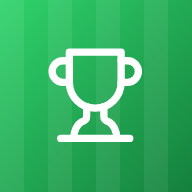
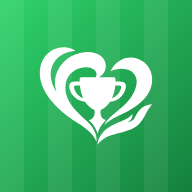
Add files via upload

Changed region(s): [[0.1875, 0.2188, 0.8125, 0.75]]

diff --git a/index.html b/index.html
@@ -10,8 +10,8 @@
 <meta name="apple-mobile-web-app-status-bar-style" content="black" />
 <meta name="apple-mobile-web-app-title" content="Fut com Cristo" />
 <link rel="manifest" href="manifest.webmanifest" />
-<link rel="icon" href="icon-192.png?v=2" />
-<link rel="apple-touch-icon" href="icon-192.png?v=2" />
+<link rel="icon" href="icon-192.png?v=3" />
+<link rel="apple-touch-icon" href="icon-192.png?v=3" />
 <style>
 :root{
   --blue:#2563EB; --blue-d:#1D4ED8; --ink:#0B0B0F; --bg:#F4F6FA; --red:#DC2626;
@@ -469,6 +469,7 @@ body{background:var(--bg0)}
 .mid .rtrack,.mid .rprog{stroke-width:11}
 .bt .num{font-size:60px}
 @media (max-width:360px){.mid{width:156px;height:156px}.mid .clock{font-size:40px}}
+.logo{width:48px;height:48px;border-radius:14px}.logo svg.logo-img{width:36px;height:auto;display:block}
 /* ---- Nada pode sair da tela ---- */
 html,body{overflow-x:hidden;max-width:100%}
 .shell,.sheet,.content{max-width:100%;min-width:0}
@@ -588,6 +589,9 @@ const ICONS = {
   refresh: '<path d="M3 12a9 9 0 0 1 9-9 9.75 9.75 0 0 1 6.74 2.74L21 8"/><path d="M21 3v5h-5"/><path d="M21 12a9 9 0 0 1-9 9 9.75 9.75 0 0 1-6.74-2.74L3 16"/><path d="M8 16H3v5"/>',
   wallet: '<path d="M19 7V4a1 1 0 0 0-1-1H5a2 2 0 0 0 0 4h15a1 1 0 0 1 1 1v4h-3a2 2 0 0 0 0 4h3a1 1 0 0 0 1-1v-2a1 1 0 0 0-1-1"/><path d="M3 5v14a2 2 0 0 0 2 2h15a1 1 0 0 0 1-1v-4"/>'
 };
+function logoSvg() {
+  return '<svg class="logo-img" viewBox="0 0 2594.35 2253.75" fill="currentColor" aria-hidden="true"><path d="M747.75 41.75c26.7,11.77 51.87,26.46 75.5,44.06l-75.13 7.06c-107.66,15.84 -203.86,55.81 -288.58,119.91 -77.22,58.46 -142.36,141.95 -175.9,233.98 -17.48,48.03 -27.68,94.56 -30.58,139.57 -4.55,70.92 3.87,143.5 25.26,217.75 22.86,83.99 60.87,162.86 109.89,236.19 0.03,0.04 0.07,0.06 0.12,0.06 0.08,0 0.14,-0.06 0.14,-0.14 0,-0.01 -0,-0.02 -0,-0.04 -28.98,-84.83 -41.88,-169.39 -37.72,-258.03 12.22,-145.47 64.07,-273.93 155.57,-385.37 82.9,-100.98 186.05,-175.89 309.46,-224.72 73.9,-29.74 151.79,-48.22 233.66,-55.44 83.06,-7.32 162.73,1.19 239.03,25.53 55.87,18.82 104.45,47.87 145.73,87.15 79.48,78.21 109.11,190.62 74.58,297.26 -24.16,72.37 -76.99,135.97 -148.51,165.82 -0.15,0.08 -0.24,0.24 -0.24,0.41 0,0.24 0.18,0.44 0.42,0.46 140.83,0.15 249.45,0.12 325.86,-0.12 16.11,-0.04 26.95,1.23 32.53,3.8 22.59,10.4 27.94,29.39 27.27,55.32 -0.06,3.04 -0.1,17.36 -0.12,42.95 56.3,0.12 101.94,0.16 136.93,0.15 49.25,-0.06 88.78,24.07 100.36,73.18 1.45,6.14 2.61,12.26 3.48,18.35 3.54,88.25 -35.43,173.81 -94.15,239.12 -67.66,75.3 -166,122.87 -270.48,136.17 -53.12,81.6 -125.6,150.95 -216.06,189.49 -8.16,36.74 -7.81,71.73 -0.26,106.35 11.38,52.04 40.98,90.17 89.07,113.35 8.6,4.15 16.9,8.02 26.51,12.17 -90.2,86.22 -154.53,187.54 -188.76,307.22 -29.07,-104.08 -88.84,-194.86 -162.05,-270.31 -10.96,-11.31 -23.08,-23.35 -36.36,-36.13 17.79,-5.48 31.45,-10.61 40.98,-15.39 76.46,-38.36 97.46,-116.71 89.18,-196.11 -0.96,-9.24 -1.95,-16 -4.15,-21.72 -90.84,-37.43 -162.34,-107.83 -215.6,-189.08 -163.18,-19.92 -301.27,-122.12 -351.33,-278.88 -7.8,-24.43 -12.2,-50.69 -13.18,-78.79 -0.89,-25.48 4.82,-48.16 17.13,-68.04 20.85,-27.24 49.94,-40.88 87.27,-40.92 30.53,-0.04 76.14,-0.07 136.84,-0.09 0.23,-16.11 0.22,-28.03 -0.03,-35.78 -0.96,-28.84 1.54,-50.47 27.71,-62.29 5.85,-2.63 15.87,-3.95 30.09,-3.95 119.39,0.12 222.54,0.09 311.14,0.03 40.8,-55.53 16.7,-123.54 -28.29,-164.22 -66.27,-59.94 -162.05,-69.41 -246.87,-61.39 -129.23,12.17 -253.2,73.18 -330.83,177.47 -37.81,50.8 -64.38,108.44 -79.72,172.91 -33.11,145.96 -0.41,298.74 70.71,428.7 49.57,90.61 109.31,165.18 183.8,242.26 76.4,79.02 168.29,161.44 236.07,227.85 64.99,63.66 121.01,129.7 163.27,209.01 42.57,79.9 58.55,164.69 47.92,254.37 0,0 0,0.01 0,0.01 0,0.05 -0.04,0.09 -0.09,0.09 -0.04,0 -0.08,-0.03 -0.09,-0.07 -31.06,-75.52 -74.92,-142.76 -131.58,-201.72 -35.64,-37.06 -72.18,-69.94 -109.6,-98.65 -53.03,-40.7 -110.16,-80.86 -171.4,-120.49 -90.11,-58.31 -168.09,-109.28 -248.5,-168.46 -54.17,-39.98 -106.41,-82.09 -156.73,-126.33 -57.56,-50.57 -112.05,-104.01 -163.47,-160.33 -93.45,-102.77 -175.32,-214.41 -235.55,-339.95 -22.03,-46.19 -40.46,-93.76 -55.29,-142.71 -13.61,-46.23 -23.15,-93.25 -28.63,-141.05 -9.16,-74.56 -6.63,-148.24 7.58,-221.06 22.23,-107.72 69.46,-201.81 141.69,-282.27 146.86,-163.58 389.09,-226.26 593.1,-135.47zm254.45 1139.17c0,-0 0,-0 0,-0 0.06,0 0.12,-0.05 0.12,-0.12 0,-0.01 -0,-0.02 -0,-0.03 -42.63,-93.43 -67.92,-191.67 -75.86,-294.7 -26.56,0.15 -54.97,0.13 -85.23,-0.09 -17.04,-0.12 -27.93,1.31 -32.67,4.27 -15.16,9.47 -17.63,25.58 -15.1,43.82 3.27,23.93 8.67,44.8 16.2,62.61 37.15,87.92 101.33,149.33 192.54,184.23zm663.34 0.47c91.25,-35.02 155.42,-96.55 192.51,-184.58 7.53,-17.83 12.92,-38.72 16.18,-62.67 2.5,-18.27 0,-34.38 -15.16,-43.85 -4.76,-2.96 -15.67,-4.38 -32.73,-4.24 -30.28,0.23 -58.71,0.29 -85.29,0.17 -7.84,103.13 -33.06,201.47 -75.65,295.02 -0,0.01 -0.01,0.02 -0.01,0.03 0,0.06 0.05,0.12 0.12,0.12 0.01,0 0.02,-0 0.03,-0.01l0 0z"/><path d="M2257.95 265.34c105.45,35.08 193.03,104.92 253.15,198.49 31.4,50.18 53.74,104.27 67,162.28 10.84,47.9 15.46,96.4 13.85,145.49 -3.66,93.16 -27.64,180.94 -71.93,263.34 -125.43,235.37 -362.8,384.76 -596.93,498.19 -125.89,60.96 -188.59,88.46 -279.02,143.46 -56.09,34.54 -108.38,73.88 -156.88,118.02 -0.06,0.08 -0.16,0.13 -0.26,0.13 -0.18,0 -0.32,-0.14 -0.32,-0.32 0,-0.07 0.02,-0.13 0.06,-0.19 18.2,-37.38 40.43,-71.68 66.71,-102.89 39.22,-46.58 85.8,-91.97 139.71,-136.17 101.41,-83.14 179.07,-144.27 263.02,-225.5 72.06,-69.74 133.56,-146.89 184.49,-231.45 21.63,-35.93 40.47,-74.26 56.54,-114.97 20.52,-52.06 32.99,-105.62 37.4,-160.68 3.19,-42.77 -1.75,-83.48 -14.84,-122.14 -35.69,-105.24 -122.61,-166.58 -228.4,-189.9 -121.83,-26.83 -251.93,-12.17 -361.7,48l5.63 -12.63c52.23,-110.97 132.07,-194.76 239.5,-251.35 120.23,-58.89 255.38,-70.39 383.22,-29.21z"/><path d="M1409.29 2162.27c-30.55,27.11 -56.8,57.6 -78.76,91.48 9.15,-166.61 123.07,-308.79 257.01,-398.81 72.95,-50.1 152.75,-89.24 233.83,-122.76 52.87,-21.86 90.97,-37.74 114.28,-47.66 73.27,-31.16 151.71,-75.16 197.85,-143.43 18.44,79.34 -32.09,152.9 -101.93,185.95 -0.07,0.04 -0.12,0.12 -0.12,0.2 0,0.13 0.1,0.23 0.23,0.23 0,0 0,0 0,0 8.83,-0.96 17.86,-2.12 28.4,-3.66 62.47,-9.18 107.04,-51.69 135.45,-106.7 11.96,-23.17 24.92,-47.79 38.86,-73.85 57.13,-106.75 143.3,-176.41 258.49,-208.98 34.15,-9.66 67.98,-15.9 101.47,-18.7 -13.67,14.09 -27.27,30.1 -40.8,48.03 -55,72.75 -91.04,144.68 -142.88,241.91 -55.9,104.84 -132.05,194.98 -234.91,255.88 -82.07,48.59 -172.56,76.99 -268.86,99.99 -173.05,41.35 -358.51,78.03 -497.61,200.87z"/></svg>';
+}
 function ic(n, c) {
   return '<svg class="ic ' + (c || "") + '" viewBox="0 0 24 24" fill="none" stroke="currentColor" stroke-width="2" stroke-linecap="round" stroke-linejoin="round" aria-hidden="true">' + ICONS[n] + "</svg>";
 }
@@ -1383,7 +1387,7 @@ function render() {
 
   document.getElementById("app").innerHTML =
     '<div class="toasts">' + S.notices.map(toastHtml).join("") + "</div>" +
-    '<div class="shell"><header class="hero"><div class="toprow"><span class="logo">' + ic("trophy", "i24") + '</span><div class="hactions">' +
+    '<div class="shell"><header class="hero"><div class="toprow"><span class="logo">' + logoSvg() + '</span><div class="hactions">' +
     (S.teams ? '<span class="glass static">' + ic("flag", "i16") + "Rodada " + S.round + "</span>" : "") +
     '<button class="glass sy" data-act="syncNow" aria-label="' + esc(syLabel()) + '"><span class="sdot ' + S.sync.state + '"></span>' + ic("cloud", "i16") + "</button>" +
     '<button class="glass" data-act="theme" aria-label="Alternar tema claro e escuro">' + ic(themeNow() === "light" ? "moon" : "sun", "i16") + '</button><button class="glass" data-act="moment" aria-label="Abrir momento cristão">' + ic("book", "i16") + '<span class="lbl">Momento</span></button></div></div>' +

diff --git a/sw.js b/sw.js
@@ -1,7 +1,7 @@
 /* Service worker do Fut com Cristo.
    Rede primeiro (pega atualizações quando há internet) e cache como reserva (funciona offline).
    Ao publicar uma nova versão, troque o número em CACHE para limpar o cache antigo. */
-const CACHE = "futcomcristo-v10";
+const CACHE = "futcomcristo-v12";
 const ARQUIVOS = ["./", "./index.html", "./manifest.webmanifest", "./icon-192.png", "./icon-512.png"];
 
 self.addEventListener("install", (e) => {
